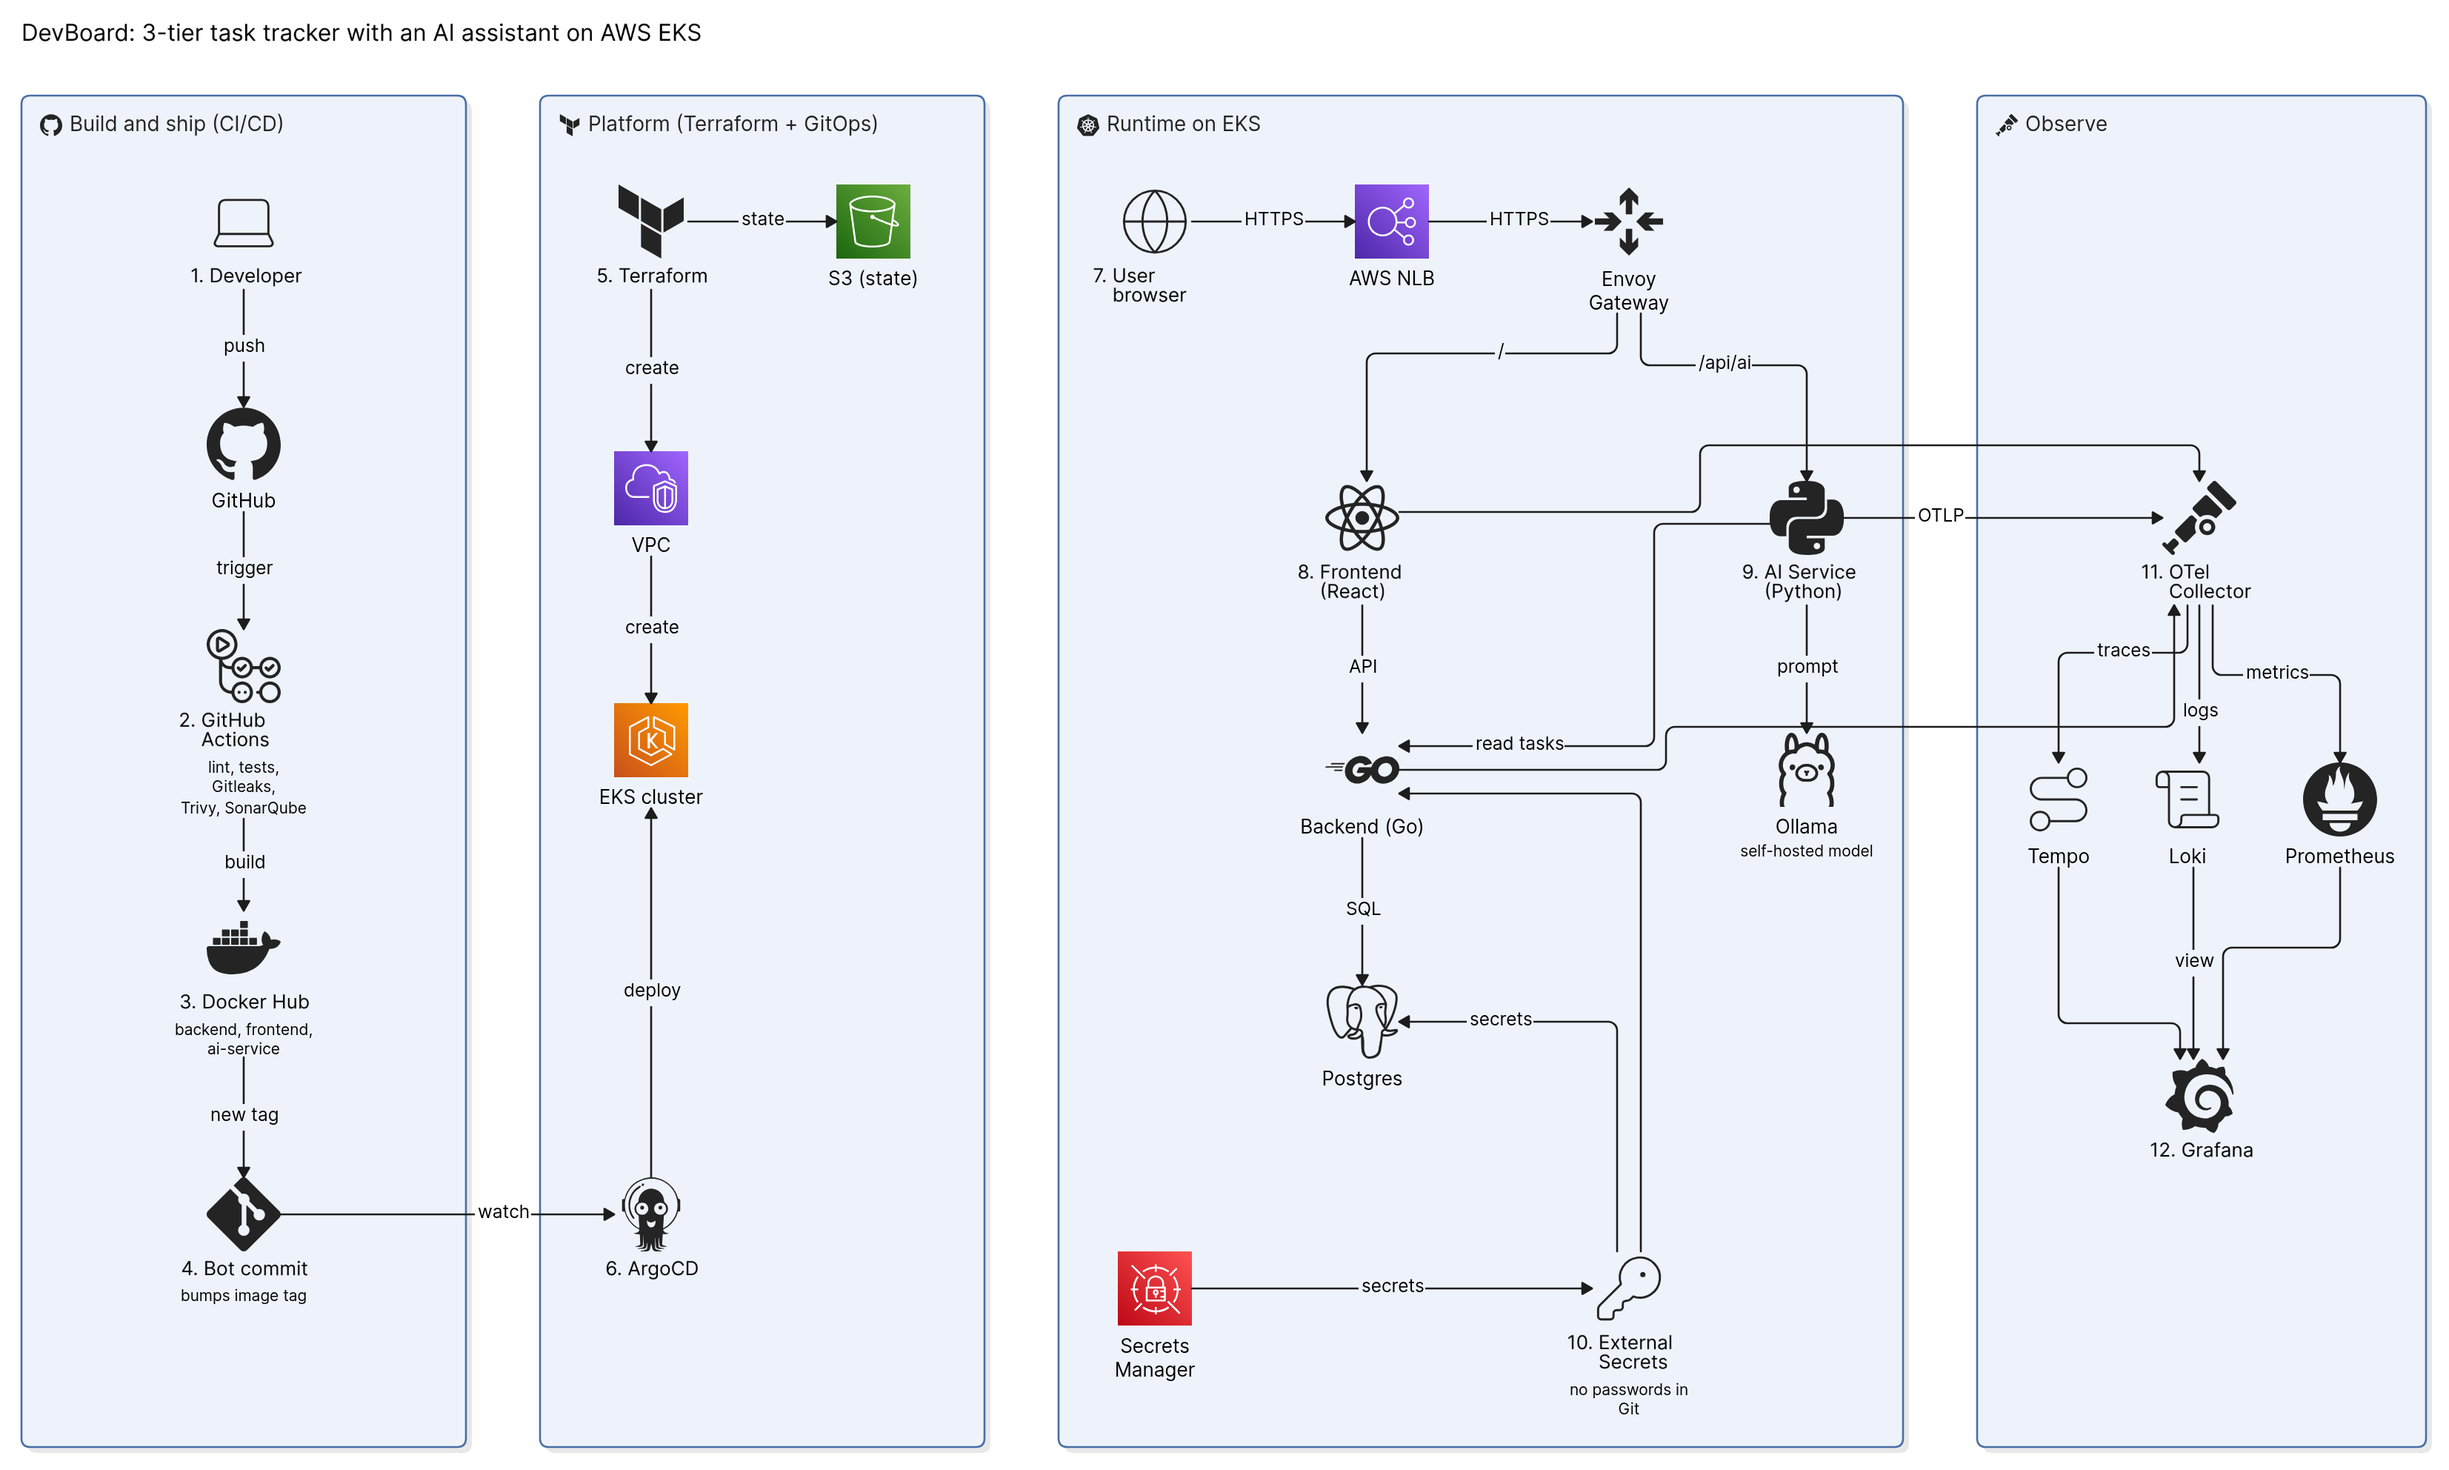
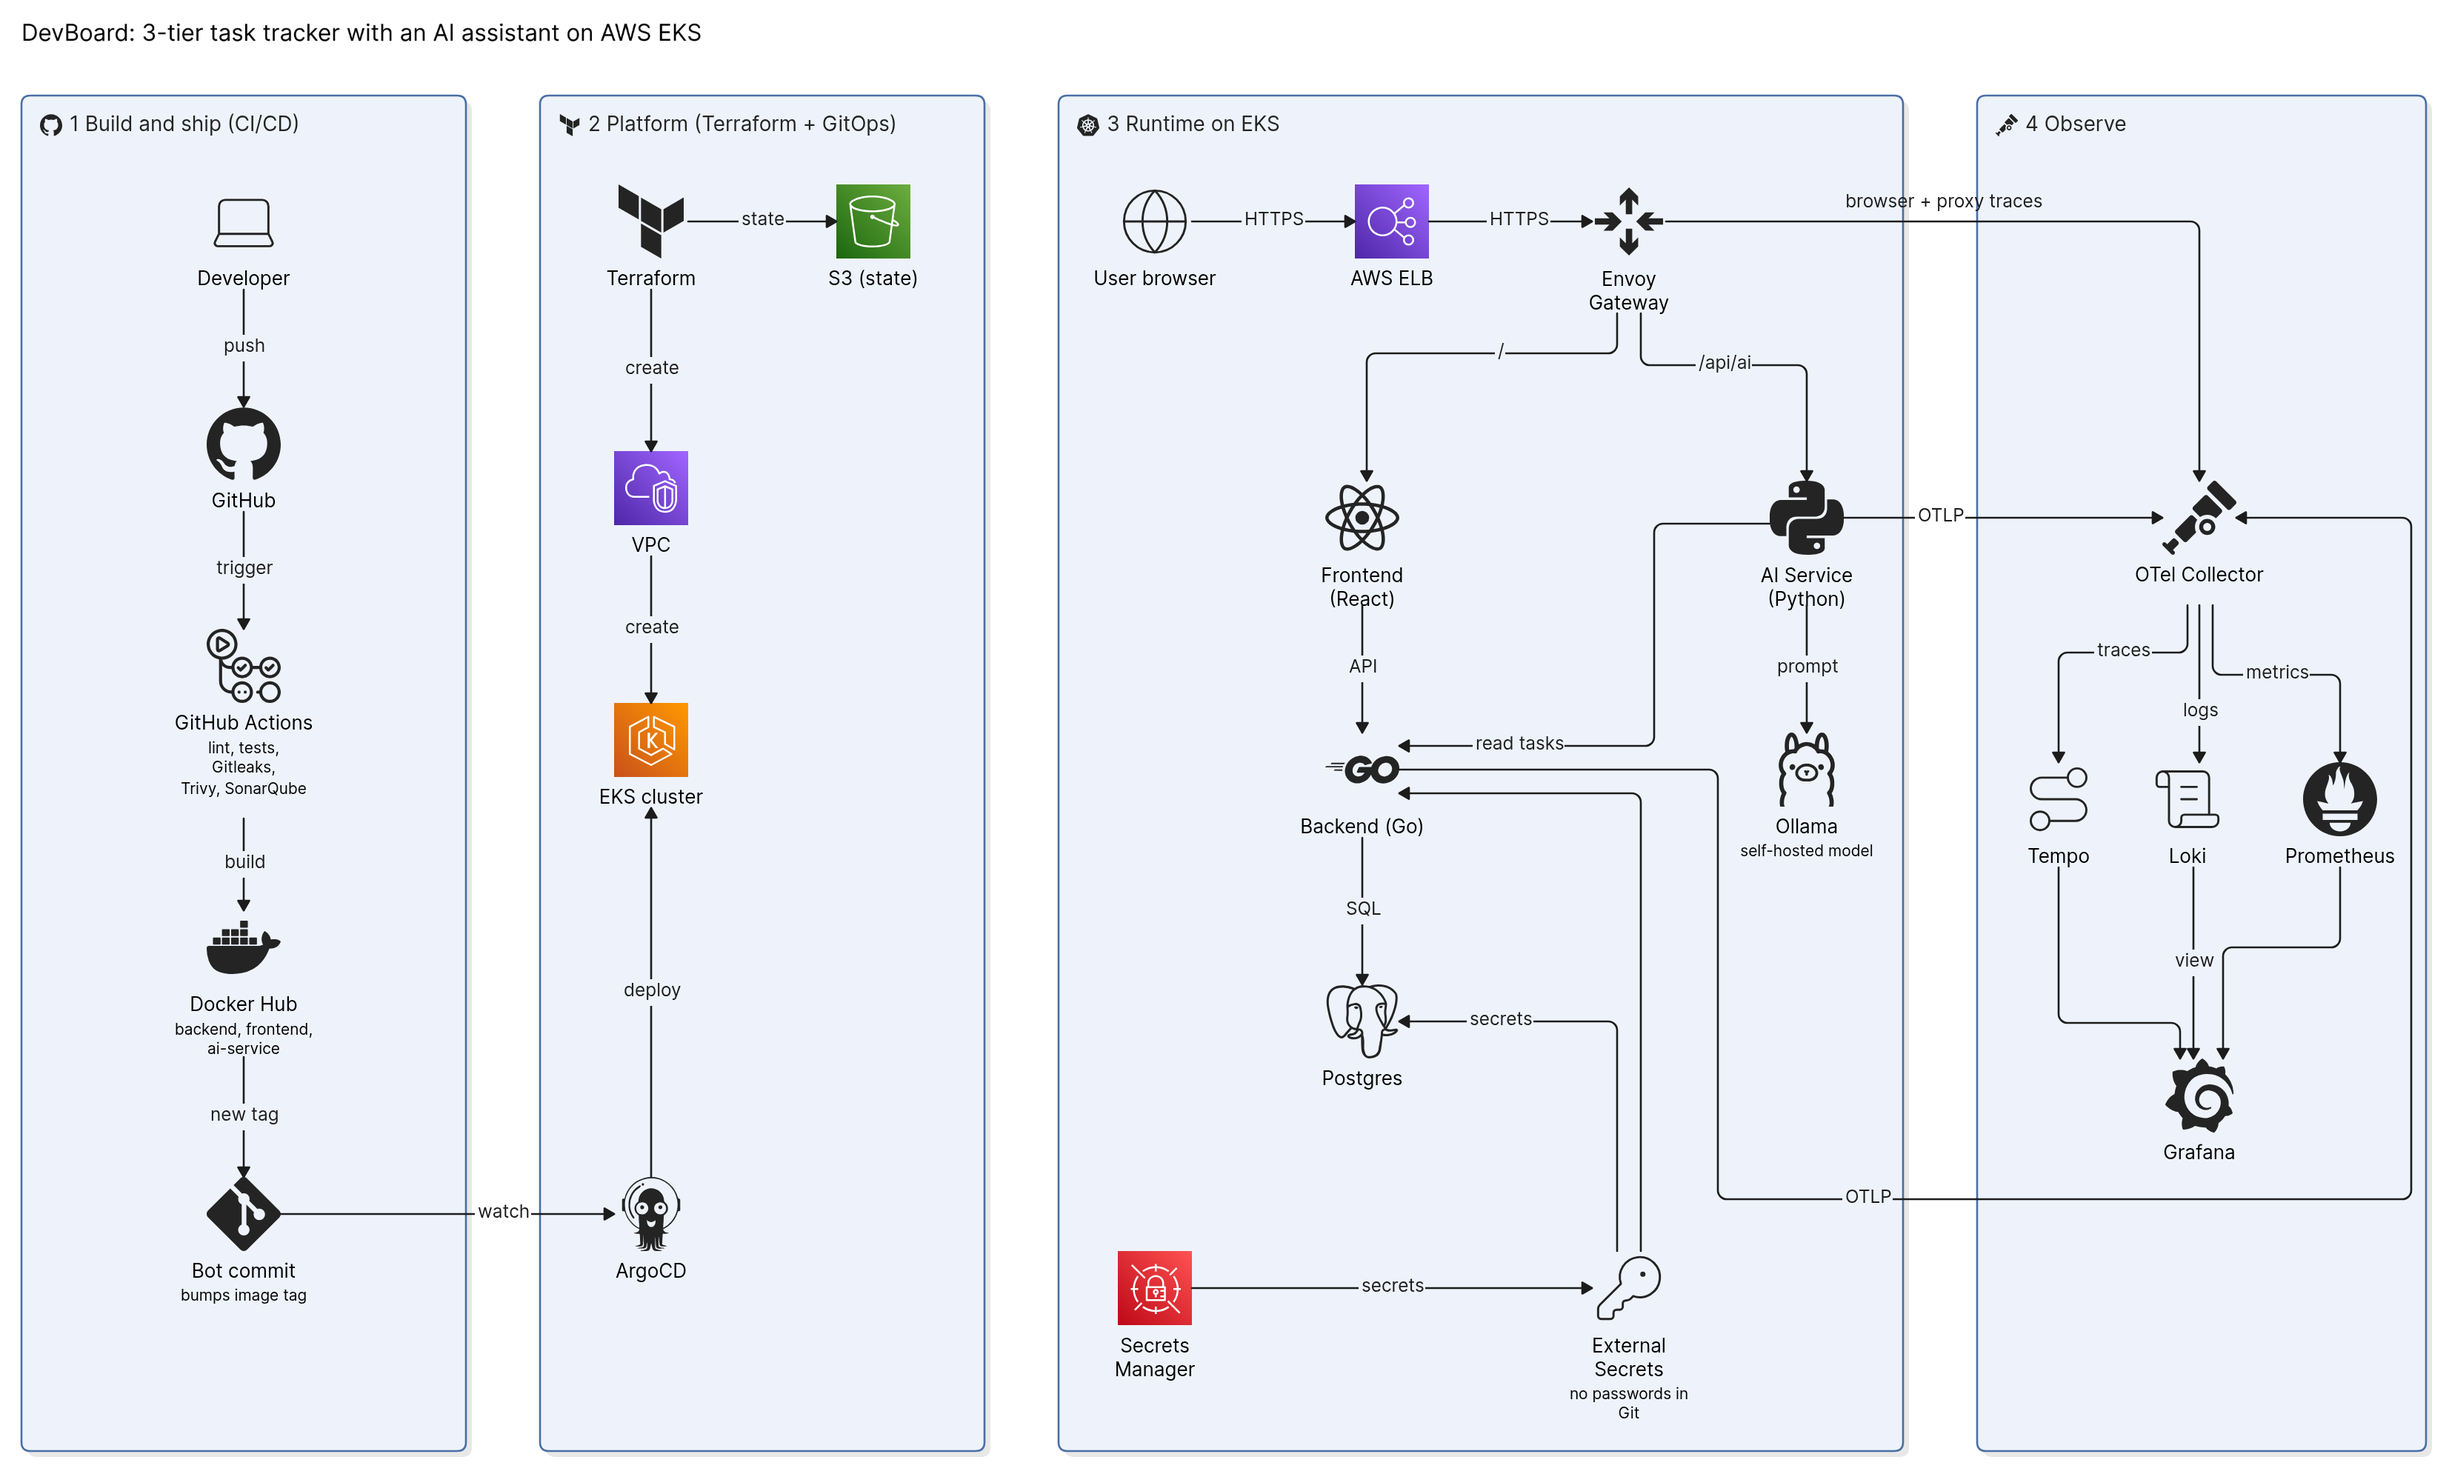
Fix architecture diagram: lane numbering, no crossing arrows, ELB not NLB

diff --git a/README.md b/README.md
@@ -23,21 +23,21 @@ build a big product. There is no login and no cache.
 
 ![DevBoard architecture: build and ship, platform, runtime on EKS, observe](docs/architecture.png)
 
-Read it left to right in the numbered order:
+Read the four lanes left to right:
 
-1. **Build and ship (1-4):** a push to GitHub triggers GitHub Actions (lint,
-   tests, Gitleaks, Trivy, SonarQube). Images go to Docker Hub, and a bot commit
-   writes the new `sha-` tag back to Git. CI never touches the cluster.
-2. **Platform (5-6):** Terraform creates the VPC and the EKS cluster (state in S3).
+1. **Build and ship:** a push to GitHub triggers GitHub Actions (lint, tests,
+   Gitleaks, Trivy, SonarQube). Images go to Docker Hub, and a bot commit writes
+   the new `sha-` tag back to Git. CI never touches the cluster.
+2. **Platform:** Terraform creates the VPC and the EKS cluster (state in S3).
    Argo CD watches Git and deploys into EKS.
-3. **Runtime (7-10):** the browser reaches the Envoy Gateway through an AWS NLB.
-   `/` goes to the React frontend, which calls the Go backend and Postgres.
-   `/api/ai/*` goes to the Python AI service, which reads tasks from the backend
-   and prompts Ollama. External Secrets feeds the passwords from AWS Secrets
-   Manager, so none live in Git.
-4. **Observe (11-12):** the frontend, backend and AI service send OTLP to the
-   OpenTelemetry Collector, which feeds Tempo, Loki and Prometheus, all viewed in
-   Grafana.
+3. **Runtime on EKS:** the browser reaches the Envoy Gateway through an AWS load
+   balancer (a Classic ELB). `/` goes to the React frontend, which calls the Go
+   backend and Postgres. `/api/ai/*` goes to the Python AI service, which reads
+   tasks from the backend and prompts Ollama. External Secrets feeds the passwords
+   from AWS Secrets Manager, so none live in Git.
+4. **Observe:** the backend and AI service send OTLP to the OpenTelemetry
+   Collector, and the Gateway forwards the browser's and Envoy's traces to it. The
+   Collector feeds Tempo, Loki and Prometheus, all viewed in Grafana.
 
 Locally, Docker Compose runs the same runtime lane, with an nginx container in
 place of the Envoy Gateway.

diff --git a/gitops/README.md b/gitops/README.md
@@ -8,7 +8,7 @@ You'll build:
 
 - **EKS via Terraform** — the VPC, subnets, NAT and IAM that `eksctl` used to
   hide from you, with remote state in S3
-- **Envoy Gateway** for a public URL (Gateway API → AWS NLB)
+- **Envoy Gateway** for a public URL (Gateway API → AWS load balancer)
 - **ArgoCD** deploying the app from Git — **two ways**, raw manifests (`k8s/`)
   and a Helm chart (`helm/devboard/`), side by side so you can compare them
 - **AWS Secrets Manager + External Secrets Operator** — no credentials in Git,
@@ -20,7 +20,7 @@ You'll build:
 ## Architecture
 
 ```
-Internet ─▶ Envoy Gateway (NLB) ─┬─ /           ─▶ frontend ─▶ /api ─▶ backend ─▶ postgres
+Internet ─▶ Envoy Gateway (ELB) ─┬─ /           ─▶ frontend ─▶ /api ─▶ backend ─▶ postgres
                                  └─ /api/ai/*   ─▶ ai-service ─▶ Ollama
 
 AWS Secrets Manager ─▶ External Secrets Operator ─▶ Secret ─▶ backend + postgres
@@ -79,7 +79,7 @@ everything ──OTLP──▶ OpenTelemetry Collector ─┬─▶ Tempo      (
 | EKS control plane | $73 |
 | 3 × t3.large | $182 |
 | NAT Gateway (one, not three) | $33 |
-| NLB per Gateway | $17 (×2 if you run both stacks) |
+| Load balancer per Gateway | $17 (×2 if you run both stacks) |
 | EBS — nodes, Postgres, Ollama, Prometheus/Tempo/Loki | $11 |
 | CloudWatch logs (audit + authenticator, 7-day retention) | $2–8 |
 | KMS key for EKS envelope encryption | $1 |
